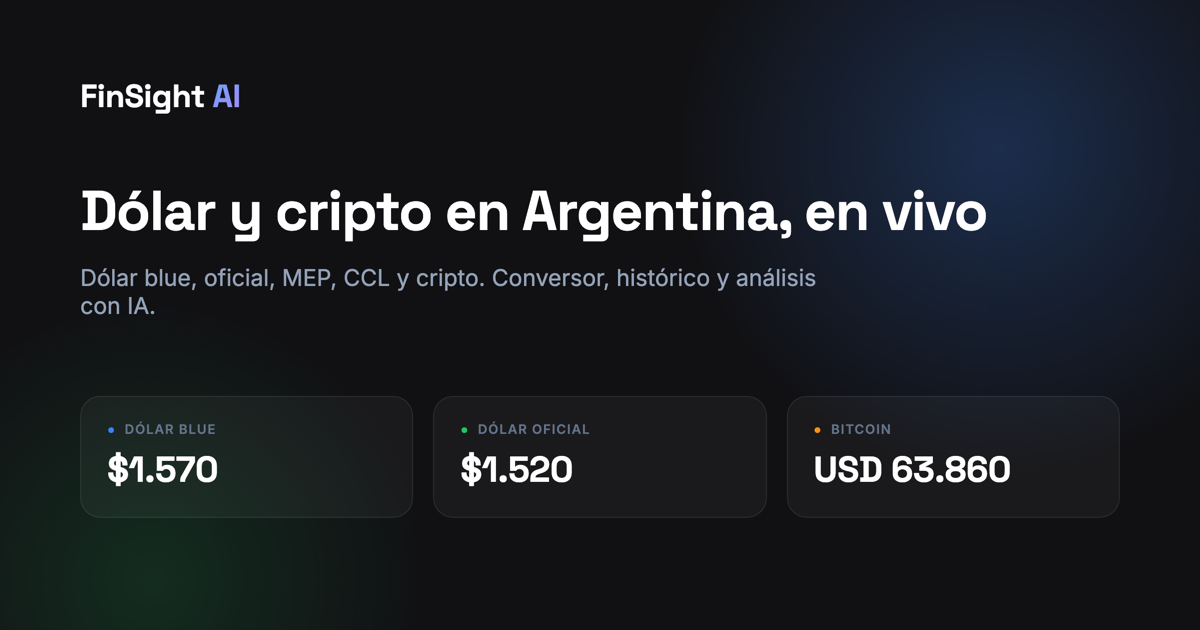
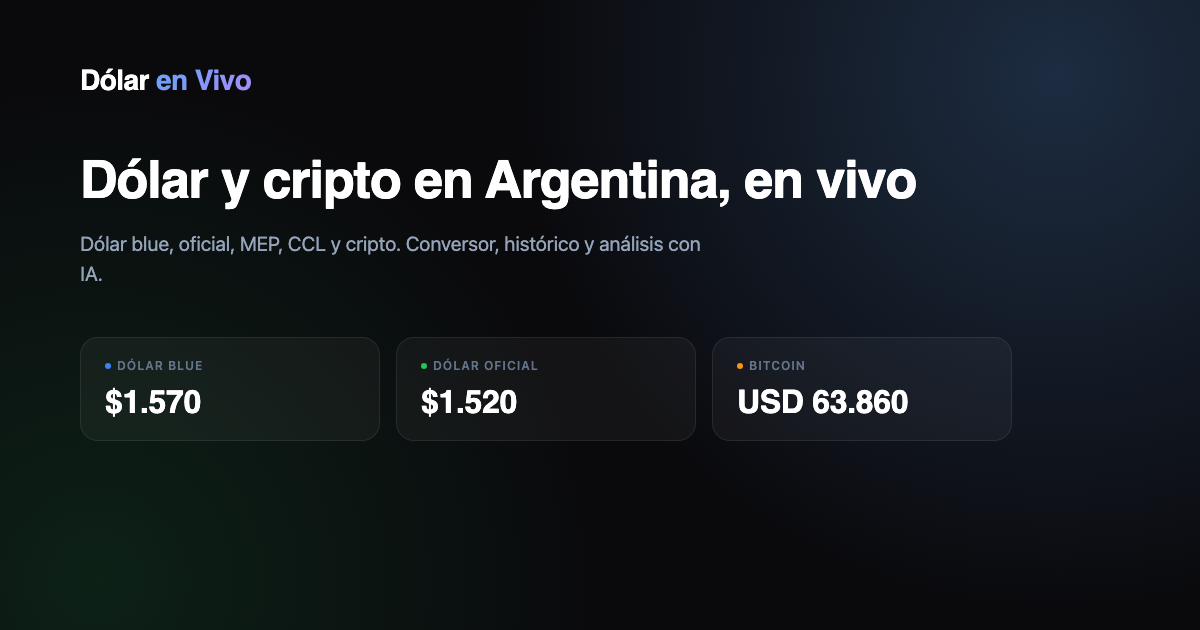
feat: rebrand from FinSight AI to Dólar en Vivo
Rename the product across the site to match the new domain: navbar
wordmark, page titles, meta tags, JSON-LD, share text, FAQ copy,
footer, login subtitle, and localStorage key prefixes. Regenerate the
OG share image with the new wordmark.

diff --git a/client/src/app/app.routes.ts b/client/src/app/app.routes.ts
@@ -7,7 +7,7 @@ export const routes: Routes = [
     loadComponent: () =>
       import('./features/dashboard/dashboard.component').then((m) => m.DashboardComponent),
     data: {
-      title: 'Dólar Blue, Oficial y Cripto Hoy en Argentina | FinSight AI',
+      title: 'Dólar Blue, Oficial y Cripto Hoy en Argentina | Dólar en Vivo',
       description:
         'Dólar blue, oficial, MEP, CCL y cripto hoy en Argentina, actualizado en vivo. Conversor, histórico y análisis con IA.',
     },
@@ -23,7 +23,7 @@ export const routes: Routes = [
       import('./features/portfolio/portfolio.component').then((m) => m.PortfolioComponent),
     canActivate: [authGuard],
     data: {
-      title: 'Mi Portfolio — FinSight AI',
+      title: 'Mi Portfolio — Dólar en Vivo',
       description:
         'Seguí el valor de tu portfolio de dólares y criptomonedas ajustado por inflación.',
     },
@@ -34,7 +34,7 @@ export const routes: Routes = [
       import('./features/analysis/analysis.component').then((m) => m.AnalysisComponent),
     canActivate: [authGuard],
     data: {
-      title: 'Análisis con IA — FinSight AI',
+      title: 'Análisis con IA — Dólar en Vivo',
       description: 'Análisis de tu portfolio y del contexto cambiario argentino generado con IA.',
     },
   },
@@ -43,9 +43,9 @@ export const routes: Routes = [
     loadComponent: () =>
       import('./features/auth/login/login.component').then((m) => m.LoginComponent),
     data: {
-      title: 'Ingresar — FinSight AI',
+      title: 'Ingresar — Dólar en Vivo',
       description:
-        'Ingresá a tu cuenta de FinSight AI para seguir tu portfolio y acceder al análisis con IA.',
+        'Ingresá a tu cuenta de Dólar en Vivo para seguir tu portfolio y acceder al análisis con IA.',
     },
   },
   {
@@ -53,9 +53,9 @@ export const routes: Routes = [
     loadComponent: () =>
       import('./features/auth/register/register.component').then((m) => m.RegisterComponent),
     data: {
-      title: 'Crear cuenta — FinSight AI',
+      title: 'Crear cuenta — Dólar en Vivo',
       description:
-        'Creá tu cuenta gratis en FinSight AI y empezá a seguir tu portfolio de dólares y cripto.',
+        'Creá tu cuenta gratis en Dólar en Vivo y empezá a seguir tu portfolio de dólares y cripto.',
     },
   },
   {

diff --git a/client/src/app/features/dashboard/dashboard.component.ts b/client/src/app/features/dashboard/dashboard.component.ts
@@ -48,7 +48,7 @@ const RATE_CHART_COLORS: Record<string, string> = {
 
 const CRYPTO_HISTORY_TYPES = ['BTC', 'ETH'];
 
-const VIEW_MODE_KEY = 'finsight-view-mode';
+const VIEW_MODE_KEY = 'dolarenvivo-view-mode';
 
 // How old the prerendered/transfer-cached snapshot can be before we hide it
 // behind the skeleton and wait for a real fetch, instead of showing stale numbers.
@@ -209,7 +209,7 @@ export class DashboardComponent implements OnInit, OnDestroy {
       });
     }
     items.push({
-      question: '¿Cada cuánto se actualizan las cotizaciones en FinSight AI?',
+      question: '¿Cada cuánto se actualizan las cotizaciones en Dólar en Vivo?',
       answer:
         'Las cotizaciones del dólar y las criptomonedas se actualizan automáticamente cada pocos minutos, las 24 horas.',
     });
@@ -306,7 +306,7 @@ export class DashboardComponent implements OnInit, OnDestroy {
     const btc = this.findCrypto(cryptos, 'BTC');
 
     const lines = [
-      '💵 Cotizaciones en Argentina - FinSight AI',
+      '💵 Cotizaciones en Argentina - Dólar en Vivo',
       blue ? `Dólar Blue: $${this.formatNumber(blue.sell)}` : null,
       oficial ? `Dólar Oficial: $${this.formatNumber(oficial.sell)}` : null,
       btc ? `Bitcoin: USD ${this.formatNumber(btc.priceUsd)}` : null,
@@ -317,7 +317,7 @@ export class DashboardComponent implements OnInit, OnDestroy {
 
     if (typeof navigator !== 'undefined' && navigator.share) {
       try {
-        await navigator.share({ title: 'FinSight AI - Cotizaciones', text, url });
+        await navigator.share({ title: 'Dólar en Vivo - Cotizaciones', text, url });
       } catch {
         /* user cancelled the share sheet */
       }

diff --git a/client/src/index.html b/client/src/index.html
@@ -2,7 +2,7 @@
 <html lang="es">
   <head>
     <meta charset="utf-8" />
-    <title>Dólar Blue, Oficial y Cripto Hoy en Argentina | FinSight AI</title>
+    <title>Dólar Blue, Oficial y Cripto Hoy en Argentina | Dólar en Vivo</title>
     <meta
       name="description"
       content="Dólar blue, oficial, MEP, CCL y cripto hoy en Argentina, actualizado en vivo. Conversor, histórico y análisis con IA."
@@ -26,7 +26,7 @@
       {
         "@context": "https://schema.org",
         "@type": "WebSite",
-        "name": "FinSight AI",
+        "name": "Dólar en Vivo",
         "url": "https://www.dolarenvivo.com.ar/",
         "description": "Dólar blue, oficial, MEP, CCL y cripto hoy en Argentina, actualizado en vivo, con conversor, histórico y análisis con IA.",
         "inLanguage": "es-AR"
@@ -34,7 +34,7 @@
     </script>
     <script>
       try {
-        const t = localStorage.getItem("finsight-theme");
+        const t = localStorage.getItem("dolarenvivo-theme");
         const light = t === "light" || (!t && !window.matchMedia("(prefers-color-scheme: dark)").matches);
         if (light) document.documentElement.classList.add("light");
       } catch {}

diff --git a/client/src/styles.css b/client/src/styles.css
@@ -193,7 +193,7 @@ body {
   border-top: 1px solid rgba(255, 255, 255, 0.06);
 }
 
-.navbar-logo-ai {
+.navbar-logo-accent {
   background: linear-gradient(135deg, #60a5fa, #a78bfa);
   -webkit-background-clip: text;
   -webkit-text-fill-color: transparent;
@@ -634,7 +634,7 @@ body {
   border-top-color: rgba(15, 23, 42, 0.07);
 }
 
-.light .navbar-logo-ai {
+.light .navbar-logo-accent {
   background: linear-gradient(135deg, #2563eb, #7c3aed);
   -webkit-background-clip: text;
   -webkit-text-fill-color: transparent;

diff --git a/client/src/app/app.component.ts b/client/src/app/app.component.ts
@@ -35,7 +35,7 @@ export class AppComponent implements OnInit {
         takeUntilDestroyed(this.destroyRef),
       )
       .subscribe((snapshot) => {
-        const title = (snapshot.data['title'] as string) ?? 'FinSight AI';
+        const title = (snapshot.data['title'] as string) ?? 'Dólar en Vivo';
         const description =
           (snapshot.data['description'] as string) ??
           'Cotización del dólar y criptomonedas en Argentina hoy, en vivo.';

diff --git a/client/src/app/features/auth/login/login.component.html b/client/src/app/features/auth/login/login.component.html
@@ -3,7 +3,7 @@
     <div class="flex flex-col items-center mb-8">
       <div class="logo-mark icon-box w-11 h-11 rounded-2xl mb-4 text-lg font-bold text-white">▲</div>
       <h1 class="font-display text-xl font-bold text-white tracking-tight">Iniciar sesión</h1>
-      <p class="page-subtitle mt-1">Ingresá a tu cuenta de FinSight AI</p>
+      <p class="page-subtitle mt-1">Ingresá a tu cuenta de Dólar en Vivo</p>
     </div>
 
     <div class="card">

diff --git a/client/src/app/shared/components/navbar/navbar.component.html b/client/src/app/shared/components/navbar/navbar.component.html
@@ -2,7 +2,7 @@
   <div class="max-w-7xl mx-auto px-4 sm:px-6 flex items-center justify-between h-14">
     <a routerLink="/" class="flex items-center gap-2.5 shrink-0">
       <span class="font-display font-semibold text-[15px] tracking-tight text-white">
-        FinSight<span class="navbar-logo-ai"> AI</span>
+        Dólar<span class="navbar-logo-accent"> en Vivo</span>
       </span>
     </a>
 

diff --git a/client/src/app/app.component.html b/client/src/app/app.component.html
@@ -5,7 +5,7 @@
   </main>
   <footer class="app-footer py-6">
     <div class="max-w-7xl mx-auto px-4 sm:px-6 text-center text-xs text-slate-600">
-      FinSight AI — hecho por
+      Dólar en Vivo — hecho por
       <a
         href="https://www.linkedin.com/in/patriciocarestia/"
         target="_blank"

diff --git a/client/src/app/core/services/seo.service.ts b/client/src/app/core/services/seo.service.ts
@@ -8,7 +8,7 @@ export interface SeoData {
   path?: string;
 }
 
-const SITE_NAME = 'FinSight AI';
+const SITE_NAME = 'Dólar en Vivo';
 const BASE_URL = 'https://www.dolarenvivo.com.ar';
 const OG_IMAGE = `${BASE_URL}/og-image.png`;
 

diff --git a/client/src/app/core/services/theme.service.ts b/client/src/app/core/services/theme.service.ts
@@ -1,6 +1,6 @@
 import { Injectable, signal } from '@angular/core';
 
-const STORAGE_KEY = 'finsight-theme';
+const STORAGE_KEY = 'dolarenvivo-theme';
 
 @Injectable({ providedIn: 'root' })
 export class ThemeService {
